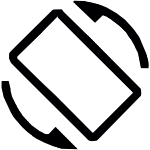
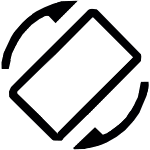
Remplacement du prototype par la version responsive et texte ajusté

diff --git a/docs/une_image_une_histoire.html b/docs/une_image_une_histoire.html
@@ -27,10 +27,23 @@ button:hover, a#backPhoto:hover { background: #00ff80; color: #001; }
   .close-btn, .return-link { font-size: 0.95rem; padding: 6px 8px; }
   button, a#backPhoto { font-size: 0.95rem; padding: 8px 16px; }
 }
+
+/* Image tournante ajoutée */
+img.rotation {
+  display: block;
+  margin: 0 auto 10px auto;
+  width: 40px;
+  animation: spin 10s linear infinite;
+}
+@keyframes spin {
+  from { transform: rotate(0deg); }
+  to { transform: rotate(360deg); }
+}
 </style>
 </head>
 <body>
 <h1>Une image - Une histoire</h1>
+<img src="images/episodes/rotation_verte.png" alt="rotation verte" class="rotation" />
 <p class="subtitle">Evzone.fr propose un terrain de jeu pour notre imagination.</p>
 <p class="subtitle">Mes images émettent un signal… à qui sait l’écouter. — Francis de Faccio</p>
 <a id="backPhoto" href="photographie.html">← Retour page Photographie</a>

diff --git a/docs/contact.html b/docs/contact.html
@@ -417,7 +417,7 @@ document.getElementById("btnAbout").addEventListener("click", ()=>{
         "Chargement...",
         "Éditeur du site - Copyright © Francis De Faccio",
         "SIRET : 424896660",
-        "Site : evzone.fr - Version 35",
+        "Site : evzone.fr - Version 36",
         "Hébergeur du site : GitHub, 88 Colin P. Kelly Jr St, San Francisco, CA 94107, États-Unis"
     ]);
 });
